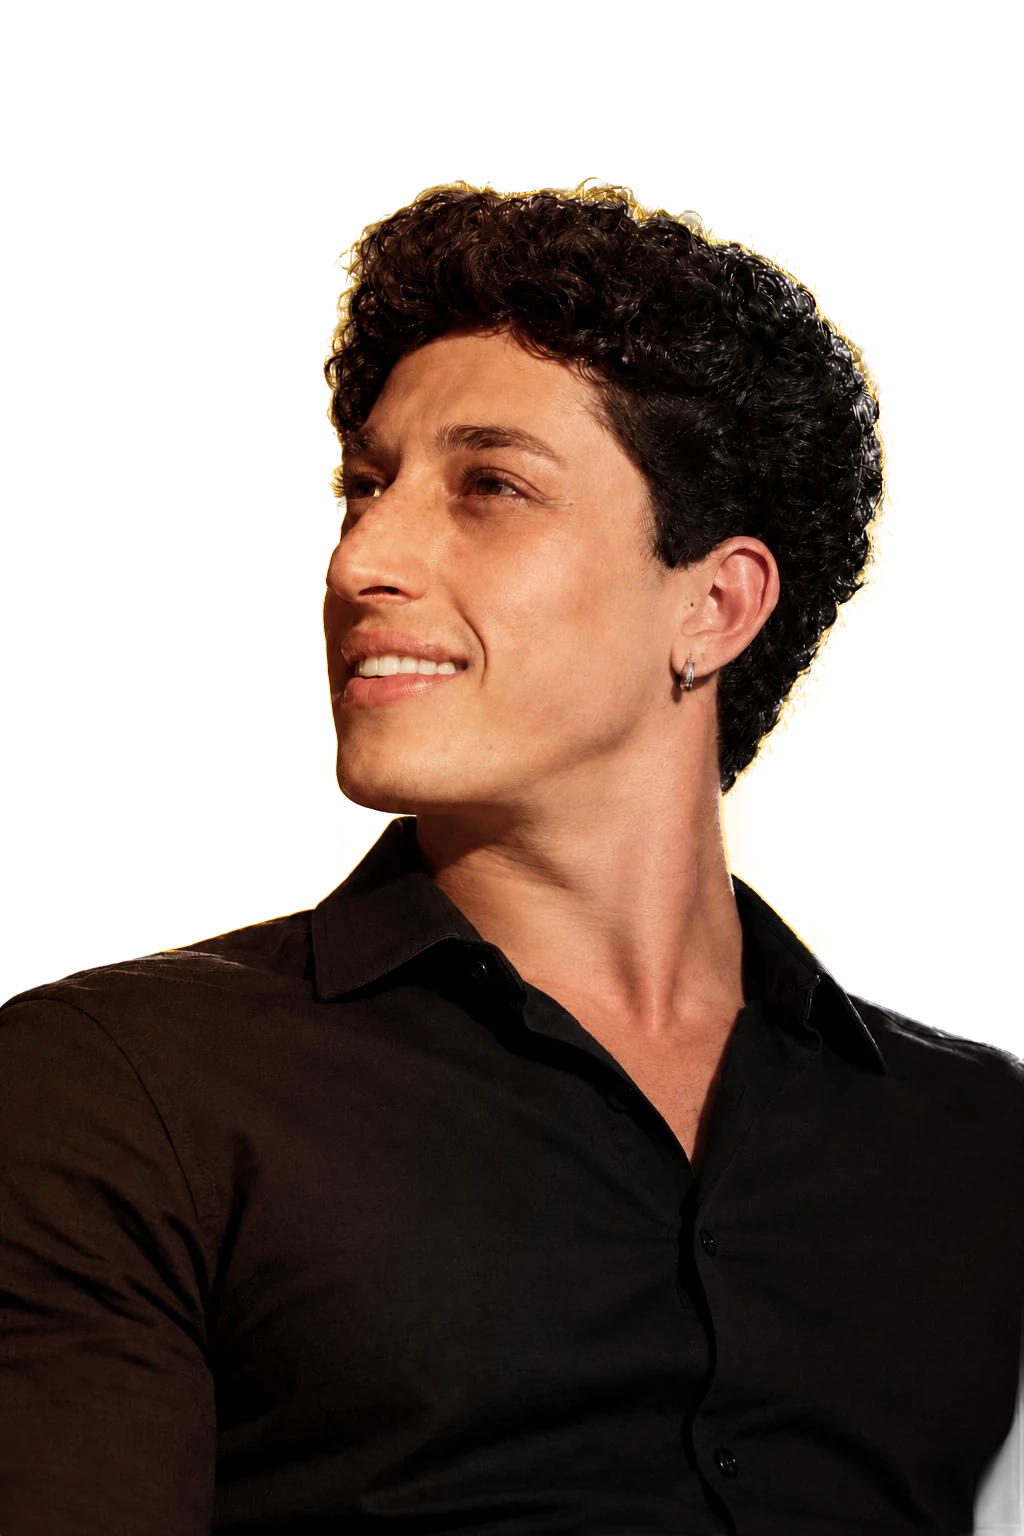
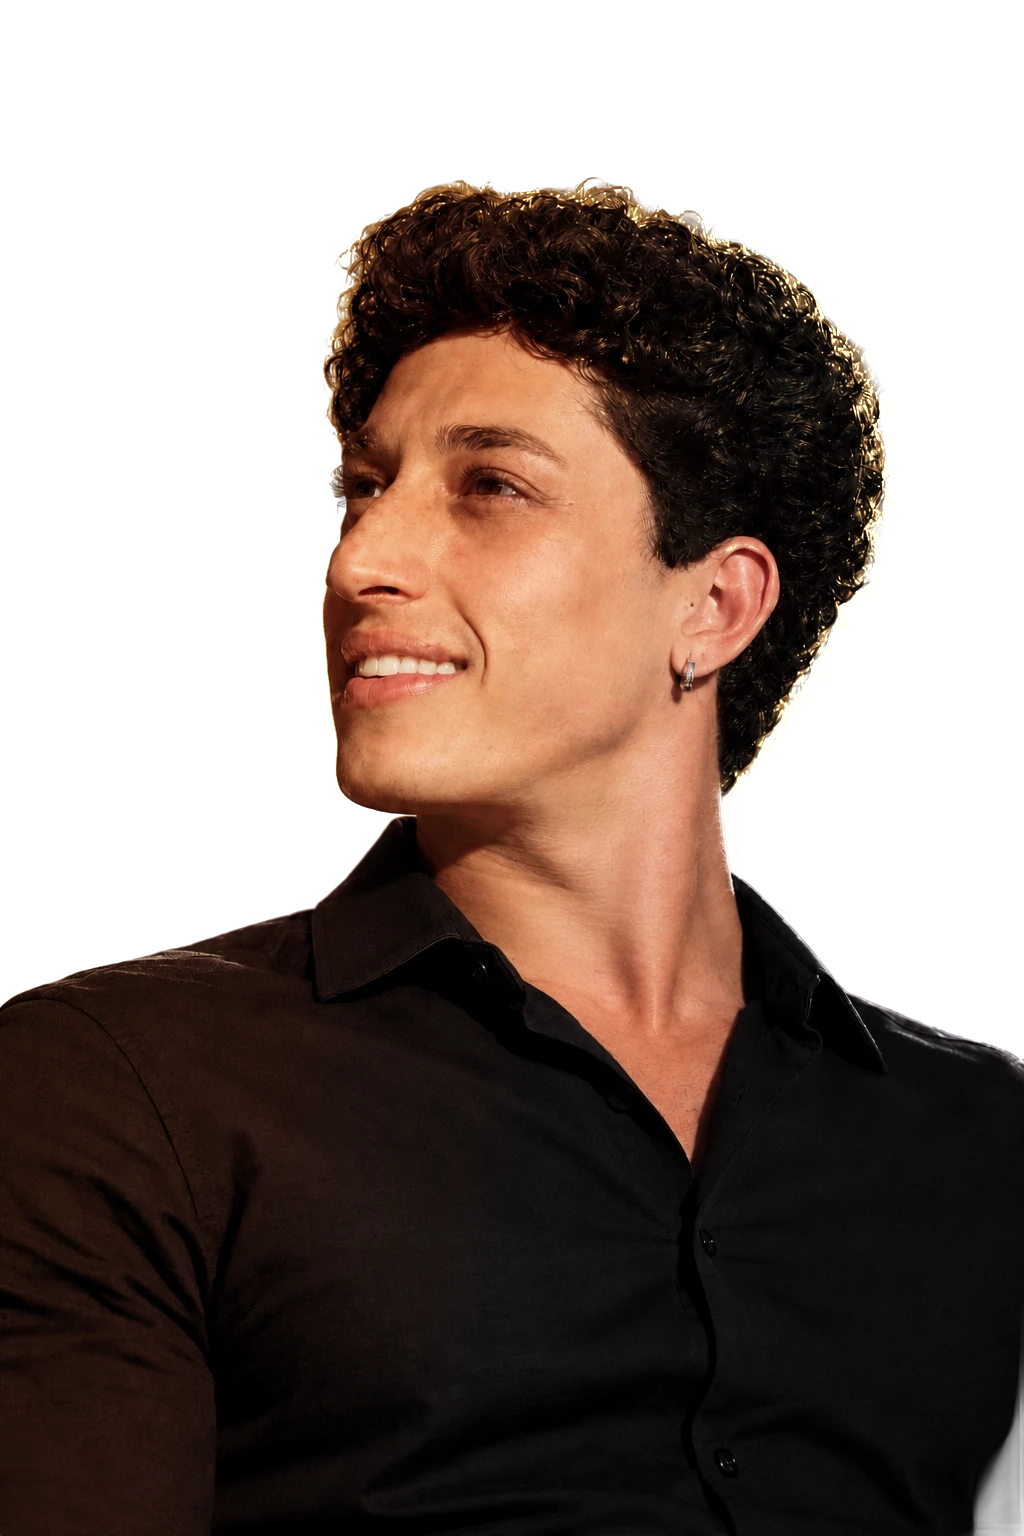
Hero: abertura sem a tela laranja chapada e luz dourada natural no cabelo
- Abertura: o fundo da hero só começava a baixar depois do CSS, e a tela ficava laranja chapada antes do fundo
  com os arcos. Agora ele baixa junto com a página (preload) e, por baixo dele, vai a mesma imagem em miniatura
  embutida no CSS (< 0,5 KB): mesmo com internet lenta a tela já abre com o degradê e os arcos.
- Cabelo: sai a faixa dourada pintada em volta. Os reflexos cinza/brancos dos cachos viram luz dourada de sol
  (mesma intensidade de cada reflexo; pele, olhos, dentes e brinco intactos) e a luz de contorno do site
  (img/gabriel-luz.webp) foi refeita no contorno da foto nova: lisa no rosto e nos ombros, e no cabelo só nos
  fios, mais forte onde o fio já tem luz na foto. Tira também um véu claro que tinha ficado ao lado do pescoço.
- Foto e luz com ?v= no endereço: o cache de 7 dias não segura a versão anterior.

Claude-Session: https://claude.ai/code/session_01VHr8XKmFyR6S9x4N3cgYgt

diff --git a/css/style.css b/css/style.css
@@ -1869,7 +1869,7 @@ html.leve .intro .btn-work, html.leve .intro .btn-work::before, html.leve .intro
    molde dos ombros e anda junto com a foto. Igual no PC e no celular. */
 .person-rim {
   position: absolute; inset: 0; pointer-events: none;
-  background: url("../img/gabriel-luz.webp") 0 0 / 100% 100% no-repeat;
+  background: url("../img/gabriel-luz.webp?v=2") 0 0 / 100% 100% no-repeat;
   mix-blend-mode: screen;
 }
 
@@ -2047,15 +2047,17 @@ html.nc-gal-on .nichos.ni-live .nc-shot, html.nc-gal-on .nichos.ni-live.is-in .n
 /* ---------- Hero: fundo em imagem (img/hero-fundo.webp, enviada pelo Gabriel) ----------
    Substitui o degradê e o desenho de círculos (svg.hero-art fica escondido; a luz amarela em volta da pessoa continua).
    Para voltar ao fundo anterior: apagar este bloco. */
+/* por baixo da imagem, a mesma imagem em miniatura (72 px, embutida): enquanto a grande baixa, a tela já mostra o
+   degradê com os arcos (ampliado ele fica liso, igual ao original) em vez de uma tela laranja chapada que depois trocava */
 .hero-bg, html.leve .hero-bg {
-  background: #e05300 url("../img/hero-fundo.webp") center / cover no-repeat;
[1 lines of base64/hex data omitted]
 }
 .hero-art { display: none; }
 @media (max-width: 860px), (max-aspect-ratio: 4/5), (orientation: landscape) and (max-height: 500px) and (max-width: 1000px) {
-  .hero-bg, html.leve .hero-bg { background-image: url("../img/hero-fundo-960.webp"); background-position: 30% 50%; }
[1 lines of base64/hex data omitted]
 }
 @media (min-resolution: 2dppx) and (max-width: 860px) {
-  .hero-bg, html.leve .hero-bg { background-image: url("../img/hero-fundo.webp"); }
[1 lines of base64/hex data omitted]
 }
 
 /* "E não para por aí": de ponta a ponta (encosta nos cantos da tela), cantos retos, conteúdo alinhado à coluna */
@@ -2112,6 +2114,7 @@ html.leve .nc-more-go::after { animation: none; }
     background:
       linear-gradient(180deg, rgba(240, 122, 0, 0) calc(100svh - 220px), #f07a00 100svh),
       url("../img/hero-fundo-960.webp") 30% 0 / auto 100svh no-repeat,
[1 lines of base64/hex data omitted]
       #f07a00;
   }
 }
@@ -2120,6 +2123,7 @@ html.leve .nc-more-go::after { animation: none; }
     background:
       linear-gradient(180deg, rgba(240, 122, 0, 0) calc(100svh - 220px), #f07a00 100svh),
       url("../img/hero-fundo.webp") 30% 0 / auto 100svh no-repeat,
[1 lines of base64/hex data omitted]
       #f07a00;
   }
 }

diff --git a/index.html b/index.html
@@ -32,8 +32,11 @@
   <link rel="preconnect" href="https://fonts.googleapis.com">
   <link rel="preconnect" href="https://fonts.gstatic.com" crossorigin>
   <link href="https://fonts.googleapis.com/css2?family=Instrument+Serif:ital@0;1&family=Inter+Tight:wght@400;500;600;700&display=swap" rel="stylesheet">
-  <!-- foto da hero em 3 tamanhos (ampliada com IA, Real-ESRGAN): cada tela baixa só o que precisa; telas retina pegam a de 2048 px -->
-  <link rel="preload" as="image" href="img/gabriel-hero.webp" fetchpriority="high">
+  <!-- foto da hero (recorte com a luz pintada); o ?v= troca quando a foto muda, para o cache de 7 dias não segurar a antiga -->
+  <link rel="preload" as="image" href="img/gabriel-hero.webp?v=4" fetchpriority="high">
+  <!-- fundo da hero baixa junto com a página (antes só depois do CSS: a tela ficava laranja chapada por um instante) -->
+  <link rel="preload" as="image" href="img/hero-fundo.webp" fetchpriority="high">
+  <link rel="preload" as="image" href="img/hero-fundo-960.webp" media="(max-width: 860px), (max-aspect-ratio: 4/5), (orientation: landscape) and (max-height: 500px) and (max-width: 1000px)">
   <!-- primeiro de tudo: recarregar volta ao topo e o modo leve para aparelhos fracos -->
   <script src="js/desempenho.js"></script>
   <link rel="stylesheet" href="css/style.css">
@@ -158,7 +161,7 @@
 
   <!-- Foto recortada: fica na frente do painel, como na referência -->
   <div class="person">
-    <img src="img/gabriel-hero.webp" alt="Gabriel Ribeiro, sorrindo e olhando para cima" width="1024" height="1536" fetchpriority="high">
+    <img src="img/gabriel-hero.webp?v=4" alt="Gabriel Ribeiro, sorrindo e olhando para cima" width="1024" height="1536" fetchpriority="high">
     <!-- luz de contorno: a luz quente do fundo "abraçando" a borda do cabelo, do rosto e dos ombros, por dentro do
          recorte (img/gabriel-luz.webp, gerada a partir do recorte e das cores do fundo atrás de cada ponto) -->
     <span class="person-rim" aria-hidden="true"></span>
